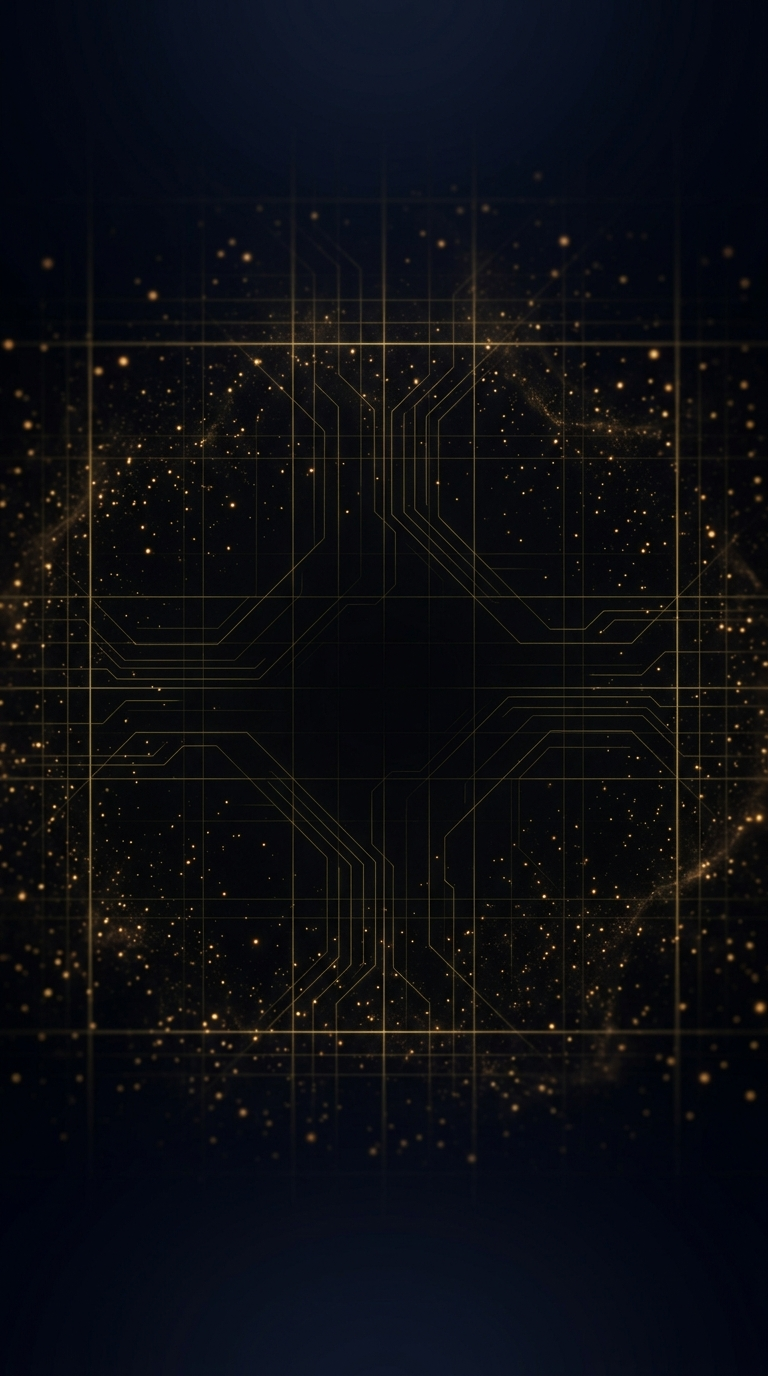
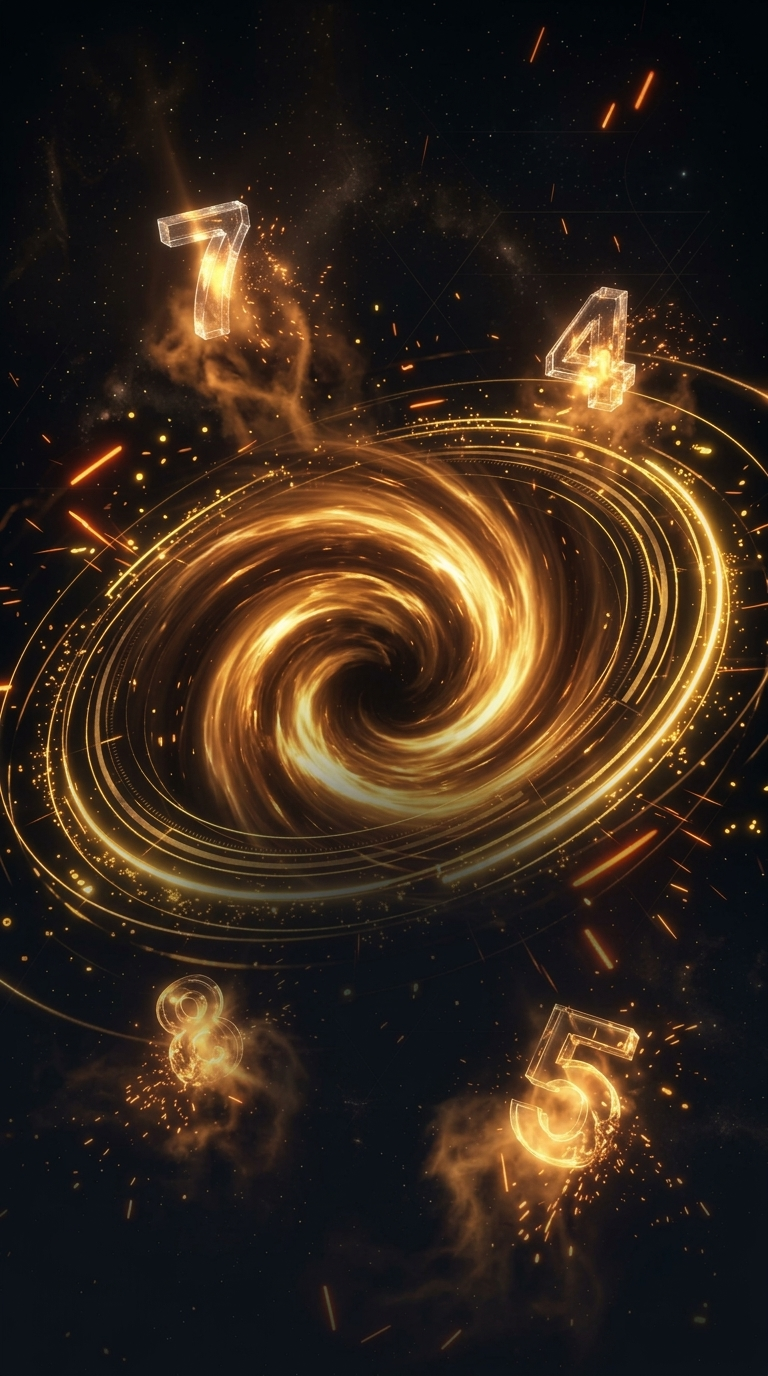
feat: add Memory Rush gameplay screen, state store, and feedback component

diff --git a/gamehub-mobile/src/games/brain/memory-rush/screens/GameplayScreen.tsx b/gamehub-mobile/src/games/brain/memory-rush/screens/GameplayScreen.tsx
@@ -38,6 +38,7 @@ export const GameplayScreen: React.FC<GameplayScreenProps> = ({
     roundConfig,
     lastFeedback,
     powerUps,
+    playerInputSequence,
     startRound,
     advanceToHide,
     advanceToQuestion,
@@ -160,13 +161,99 @@ export const GameplayScreen: React.FC<GameplayScreenProps> = ({
 
         {/* TASK / PROMPT AREA */}
         <View style={styles.taskContainer}>
-          <Text style={styles.taskLabel}>
-            {phase === 'preview'
-              ? 'MEMORIZE THE NUMBERS'
-              : phase === 'hide'
-              ? 'HIDING GRID...'
-              : roundConfig?.questionPrompt || 'TAP THE NUMBER'}
-          </Text>
+          {phase === 'preview' && (
+            <View style={styles.phaseHeaderBox}>
+              <Text style={styles.phaseSubTitle}>
+                {roundConfig?.actualType === 'sequenceRush'
+                  ? 'MEMORIZE THE SEQUENCE ORDER'
+                  : roundConfig?.actualType === 'numberShift'
+                  ? 'MEMORIZE ALL NUMBERS'
+                  : roundConfig?.actualType === 'missingNumber'
+                  ? 'MEMORIZE BEFORE ONE VANISHES'
+                  : 'MEMORIZE NUMBER POSITIONS'}
+              </Text>
+              <Text style={styles.taskLabel}>GET READY...</Text>
+            </View>
+          )}
+
+          {phase === 'hide' && (
+            <View style={styles.phaseHeaderBox}>
+              <Text style={styles.taskLabel}>
+                {roundConfig?.actualType === 'numberShift'
+                  ? 'MUTATING ONE NUMBER...'
+                  : roundConfig?.actualType === 'missingNumber'
+                  ? 'ONE NUMBER VANISHED!'
+                  : 'HIDING TILES...'}
+              </Text>
+            </View>
+          )}
+
+          {phase === 'question' && (
+            <View style={styles.questionContainer}>
+              {/* 1. MEMORY GRID TARGET DISPLAY */}
+              {roundConfig?.actualType === 'memoryGrid' && (
+                <View style={styles.targetBanner}>
+                  <Text style={styles.targetPromptText}>WHERE WAS NUMBER</Text>
+                  <View style={styles.targetBadge}>
+                    <Text style={styles.targetBadgeNumber}>{roundConfig.targetValue}</Text>
+                  </View>
+                </View>
+              )}
+
+              {/* 2. SEQUENCE RUSH TRACKER */}
+              {roundConfig?.actualType === 'sequenceRush' && (
+                <View style={styles.sequenceTracker}>
+                  <Text style={styles.sequenceTrackerPrompt}>
+                    TAP IN ORDER: {playerInputSequence.length + 1} OF {roundConfig.sequenceOrder?.length || 0}
+                  </Text>
+                  <View style={styles.sequenceSlotsRow}>
+                    {(roundConfig.sequenceOrder || []).map((expectedVal, idx) => {
+                      const isFilled = idx < playerInputSequence.length;
+                      const isCurrent = idx === playerInputSequence.length;
+                      return (
+                        <View
+                          key={`seq_slot_${idx}`}
+                          style={[
+                            styles.seqSlot,
+                            isFilled && styles.seqSlotFilled,
+                            isCurrent && styles.seqSlotCurrent,
+                          ]}
+                        >
+                          <Text style={[styles.seqSlotText, isFilled && styles.seqSlotFilledText]}>
+                            {isFilled ? expectedVal : `${idx + 1}`}
+                          </Text>
+                        </View>
+                      );
+                    })}
+                  </View>
+                </View>
+              )}
+
+              {/* 3. NUMBER SHIFT PROMPT */}
+              {roundConfig?.actualType === 'numberShift' && (
+                <View style={styles.shiftPromptBanner}>
+                  <View style={styles.modePillShift}>
+                    <MRIcon name="refresh-cw" size={14} color={MRColors.yellowStatus} />
+                    <Text style={styles.modePillText}>NUMBER SHIFT</Text>
+                  </View>
+                  <Text style={styles.shiftPromptMain}>SPOT THE MUTATED NUMBER!</Text>
+                  <Text style={styles.shiftPromptSub}>Tap the tile that changed from preview</Text>
+                </View>
+              )}
+
+              {/* 4. MISSING NUMBER PROMPT */}
+              {roundConfig?.actualType === 'missingNumber' && (
+                <View style={styles.missingPromptBanner}>
+                  <View style={styles.modePillShift}>
+                    <MRIcon name="help-circle" size={14} color={MRColors.yellowStatus} />
+                    <Text style={styles.modePillText}>MISSING NUMBER</Text>
+                  </View>
+                  <Text style={styles.shiftPromptMain}>WHICH NUMBER VANISHED?</Text>
+                  <Text style={styles.shiftPromptSub}>Select from the options below</Text>
+                </View>
+              )}
+            </View>
+          )}
 
           {/* Feedback Toast */}
           <RoundFeedback
@@ -189,10 +276,10 @@ export const GameplayScreen: React.FC<GameplayScreenProps> = ({
 
             {/* Answer Options for Missing Number Mode */}
             {roundConfig.actualType === 'missingNumber' && phase === 'question' && (
-              <View style={styles.missingOptionsRow}>
-                {[1, 2, 3, 4, 5, 6, 7, 8, 9]
-                  .filter((n) => !tiles.some((t) => t.value === n))
-                  .map((val) => (
+              <View style={styles.missingOptionsContainer}>
+                <Text style={styles.missingOptionsHeader}>CHOOSE VANISHED NUMBER:</Text>
+                <View style={styles.missingOptionsRow}>
+                  {(roundConfig.missingOptions || []).map((val) => (
                     <Pressable
                       key={`missing_${val}`}
                       onPress={() => onOptionPress(val)}
@@ -204,6 +291,7 @@ export const GameplayScreen: React.FC<GameplayScreenProps> = ({
                       <Text style={styles.missingBtnText}>{val}</Text>
                     </Pressable>
                   ))}
+                </View>
               </View>
             )}
           </View>
@@ -373,5 +461,140 @@ const styles = StyleSheet.create({
     flexDirection: 'row',
     justifyContent: 'space-around',
     gap: 10,
+  },
+  phaseHeaderBox: {
+    alignItems: 'center',
+    gap: 2,
+  },
+  phaseSubTitle: {
+    fontSize: 9.5,
+    fontWeight: '800',
+    color: MRColors.yellowStatus,
+    letterSpacing: 1.5,
+  },
+  questionContainer: {
+    alignItems: 'center',
+    width: '100%',
+  },
+  targetBanner: {
+    flexDirection: 'row',
+    alignItems: 'center',
+    gap: 10,
+  },
+  targetPromptText: {
+    fontSize: 16,
+    fontWeight: '900',
+    color: MRColors.textPrimary,
+    letterSpacing: 2,
+  },
+  targetBadge: {
+    backgroundColor: 'rgba(255, 216, 61, 0.18)',
+    borderWidth: 1.5,
+    borderColor: MRColors.yellowStatus,
+    paddingHorizontal: 14,
+    paddingVertical: 4,
+    borderRadius: 12,
+    shadowColor: MRColors.yellowStatus,
+    shadowOffset: { width: 0, height: 0 },
+    shadowOpacity: 0.8,
+    shadowRadius: 10,
+    elevation: 6,
+  },
+  targetBadgeNumber: {
+    fontSize: 22,
+    fontWeight: '900',
+    color: MRColors.yellowStatus,
+  },
+  sequenceTracker: {
+    alignItems: 'center',
+    gap: 8,
+  },
+  sequenceTrackerPrompt: {
+    fontSize: 12,
+    fontWeight: '900',
+    color: MRColors.yellowStatus,
+    letterSpacing: 1.5,
+  },
+  sequenceSlotsRow: {
+    flexDirection: 'row',
+    gap: 8,
+  },
+  seqSlot: {
+    width: 38,
+    height: 38,
+    borderRadius: 10,
+    borderWidth: 1.2,
+    borderColor: 'rgba(255, 255, 255, 0.2)',
+    backgroundColor: 'rgba(16, 27, 43, 0.8)',
+    alignItems: 'center',
+    justifyContent: 'center',
+  },
+  seqSlotFilled: {
+    borderColor: MRColors.yellowStatus,
+    backgroundColor: 'rgba(255, 216, 61, 0.2)',
+  },
+  seqSlotCurrent: {
+    borderColor: '#FFF59D',
+    borderWidth: 2,
+  },
+  seqSlotText: {
+    fontSize: 14,
+    fontWeight: '900',
+    color: MRColors.textMuted,
+  },
+  seqSlotFilledText: {
+    color: MRColors.yellowStatus,
+  },
+  shiftPromptBanner: {
+    alignItems: 'center',
+    gap: 3,
+  },
+  modePillShift: {
+    flexDirection: 'row',
+    alignItems: 'center',
+    gap: 5,
+    backgroundColor: 'rgba(255, 216, 61, 0.15)',
+    paddingHorizontal: 8,
+    paddingVertical: 2,
+    borderRadius: 8,
+    borderWidth: 1,
+    borderColor: 'rgba(255, 216, 61, 0.35)',
+  },
+  modePillText: {
+    fontSize: 9,
+    fontWeight: '900',
+    color: MRColors.yellowStatus,
+    letterSpacing: 1,
+  },
+  shiftPromptMain: {
+    fontSize: 16,
+    fontWeight: '900',
+    color: MRColors.textPrimary,
+    letterSpacing: 1.5,
+    textShadowColor: MRColors.goldGlow,
+    textShadowOffset: { width: 0, height: 0 },
+    textShadowRadius: 8,
+  },
+  shiftPromptSub: {
+    fontSize: 10,
+    fontWeight: '800',
+    color: MRColors.textSecondary,
+    letterSpacing: 1,
+  },
+  missingPromptBanner: {
+    alignItems: 'center',
+    gap: 3,
+  },
+  missingOptionsContainer: {
+    marginTop: 14,
+    alignItems: 'center',
+    width: '100%',
+  },
+  missingOptionsHeader: {
+    fontSize: 9.5,
+    fontWeight: '900',
+    color: MRColors.yellowStatus,
+    letterSpacing: 1.5,
+    marginBottom: 6,
   },
 });

diff --git a/gamehub-mobile/src/games/brain/memory-rush/components/RoundFeedback.tsx b/gamehub-mobile/src/games/brain/memory-rush/components/RoundFeedback.tsx
@@ -7,7 +7,7 @@ import { View, Text, StyleSheet } from 'react-native';
 import { MRColors } from '../constants/colors';
 
 interface RoundFeedbackProps {
-  type: 'perfect' | 'miss' | null;
+  type: 'perfect' | 'miss' | 'streak' | null;
   message: string;
   points?: number;
 }
@@ -20,15 +20,29 @@ export const RoundFeedback: React.FC<RoundFeedbackProps> = ({
   if (!type) return null;
 
   const isPerfect = type === 'perfect';
+  const isStreak = type === 'streak';
 
   return (
     <View
       style={[
         styles.toast,
-        isPerfect ? styles.toastPerfect : styles.toastMiss,
+        isPerfect
+          ? styles.toastPerfect
+          : isStreak
+          ? styles.toastStreak
+          : styles.toastMiss,
       ]}
     >
-      <Text style={[styles.text, isPerfect ? styles.textPerfect : styles.textMiss]}>
+      <Text
+        style={[
+          styles.text,
+          isPerfect
+            ? styles.textPerfect
+            : isStreak
+            ? styles.textStreak
+            : styles.textMiss,
+        ]}
+      >
         {message} {points ? `+${points}` : ''}
       </Text>
     </View>
@@ -48,6 +62,10 @@ const styles = StyleSheet.create({
     backgroundColor: 'rgba(74, 222, 128, 0.15)',
     borderColor: MRColors.successGreen,
   },
+  toastStreak: {
+    backgroundColor: 'rgba(255, 216, 61, 0.18)',
+    borderColor: MRColors.yellowStatus,
+  },
   toastMiss: {
     backgroundColor: 'rgba(251, 113, 133, 0.15)',
     borderColor: MRColors.dangerRose,
@@ -59,6 +77,9 @@ const styles = StyleSheet.create({
   },
   textPerfect: {
     color: MRColors.successGreen,
+  },
+  textStreak: {
+    color: MRColors.yellowStatus,
   },
   textMiss: {
     color: MRColors.dangerRose,

diff --git a/gamehub-mobile/src/games/brain/memory-rush/components/GameBackground.tsx b/gamehub-mobile/src/games/brain/memory-rush/components/GameBackground.tsx
@@ -38,7 +38,7 @@ export const GameBackground: React.FC<GameBackgroundProps> = ({
         return 0.30;
       case 'home':
       default:
-        return 0.35;
+        return 0.60;
     }
   };
 
@@ -83,7 +83,7 @@ const styles = StyleSheet.create({
   },
   darkScrim: {
     ...StyleSheet.absoluteFill,
-    backgroundColor: 'rgba(8, 10, 13, 0.40)',
+    backgroundColor: 'rgba(8, 10, 13, 0.22)',
   },
   content: {
     flex: 1,

diff --git a/gamehub-mobile/src/games/brain/memory-rush/store/memoryRushStore.ts b/gamehub-mobile/src/games/brain/memory-rush/store/memoryRushStore.ts
@@ -43,11 +43,11 @@ interface MemoryRushState {
 
   tiles: NumberTileData[];
   roundConfig: RoundConfig | null;
-  playerInputSequence: number[];
+  playerInputSequence: (number | string)[];
   selectedTileIds: string[];
 
   lastFeedback: {
-    type: 'perfect' | 'miss' | null;
+    type: 'perfect' | 'miss' | 'streak' | null;
     message: string;
     points?: number;
   };
